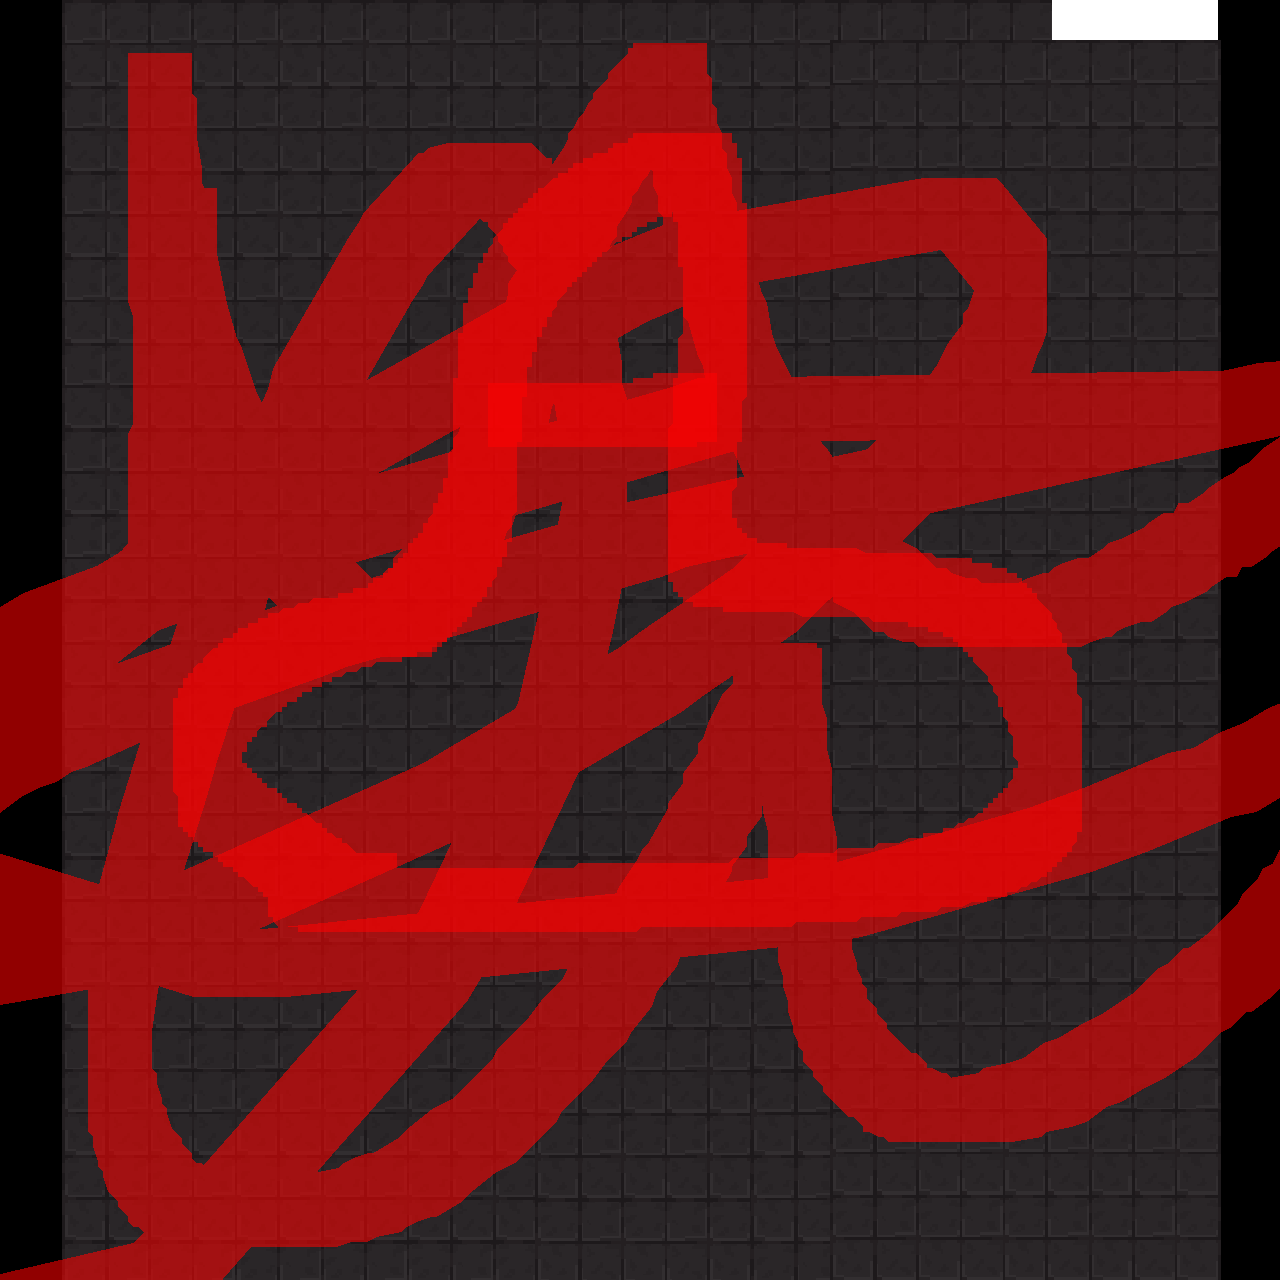
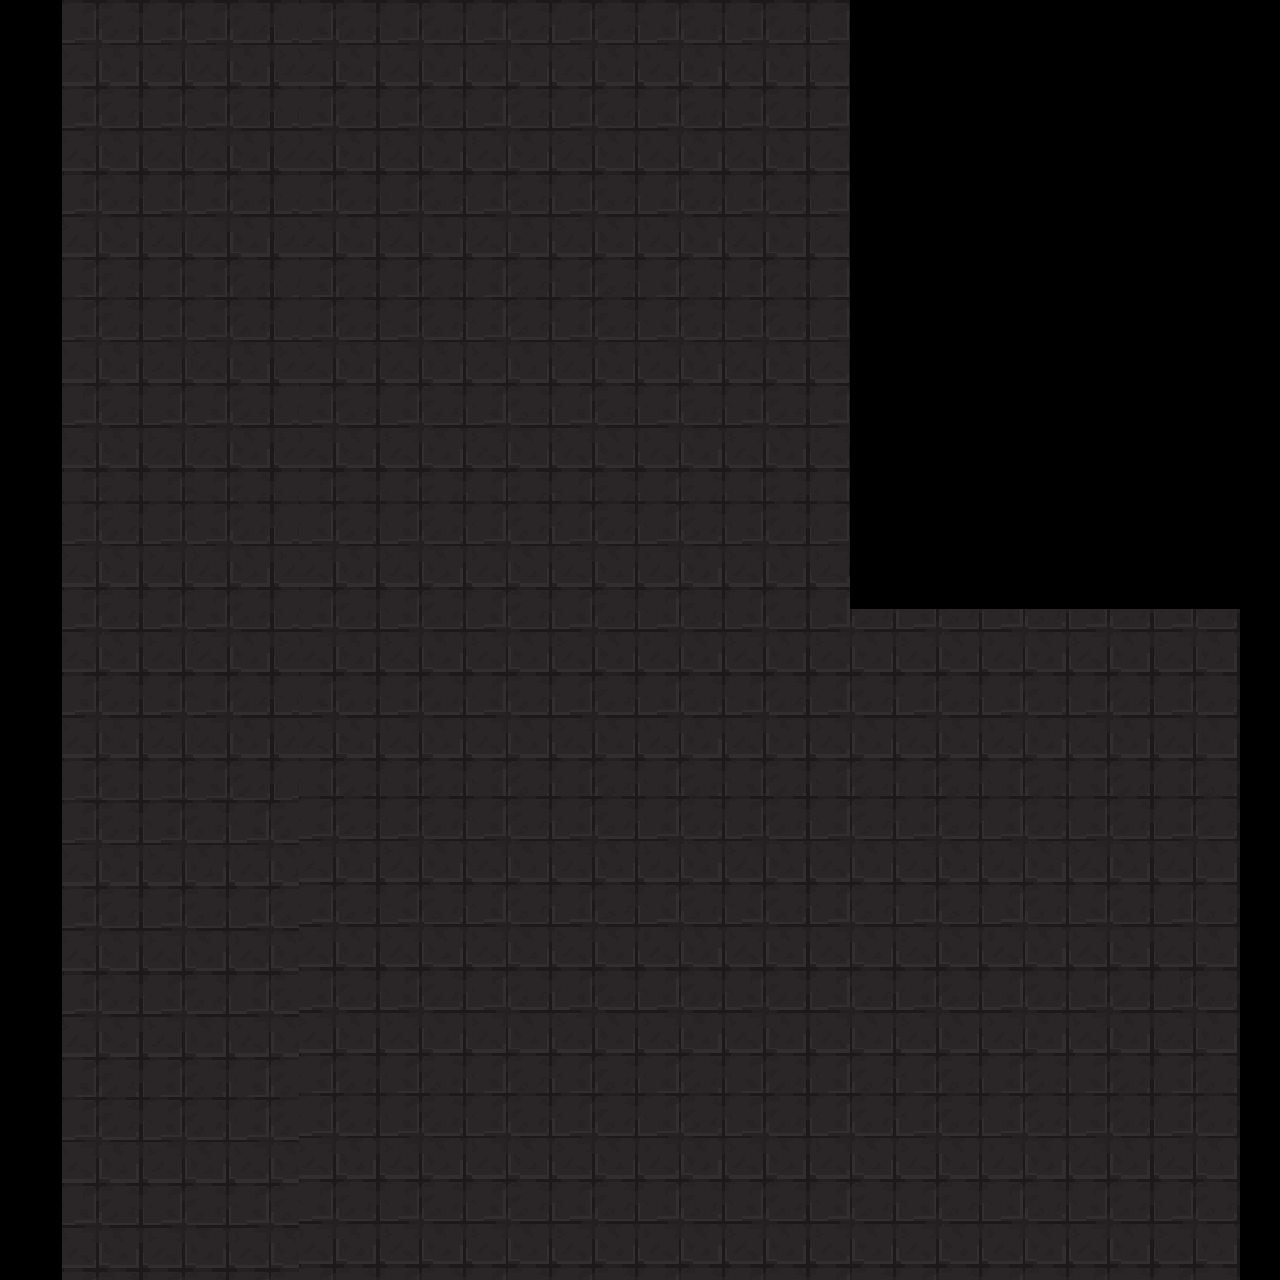
Nova sala com formato novo, não apenas quadrada

diff --git a/prototipo/settings.py b/prototipo/settings.py
@@ -18,21 +18,25 @@ TILESIZE = 64
 # p = player
 # b = pilha
 # l = porta
+# k = chave
+# v = slime
+# el = inimigo
+
 
 
 ROOMS = ([
 ['j','y','y','y','y','y','y','y','y','c','y','y','y','y','y','y','y','y','y','m'],
 ['x','a','z','a','z','a','z','a','i','l','i','a','z','a','z','a','z','a','a','q'],
-['x',' ','p',' ',' ',' ',' ',' ',' ',' ',' ',' ',' ',' ',' ',' ',' ',' ',' ','q'],
+['x',' ','p',' ',' ',' ',' ',' ',' ','k',' ',' ',' ',' ',' ',' ',' ',' ',' ','q'],
 ['x',' ',' ',' ',' ',' ',' ','eh',' ',' ',' ',' ',' ',' ',' ',' ',' ',' ',' ','q'],
 ['x',' ',' ',' ',' ',' ',' ',' ',' ',' ',' ','v',' ',' ',' ',' ','v',' ',' ','q'],
-['x',' ',' ','q','s',' ',' ','v',' ',' ',' ',' ',' ',' ',' ',' ',' ',' ',' ','q'],
-['x',' ',' ','q','s',' ',' ',' ',' ',' ',' ',' ',' ',' ',' ',' ',' ',' ',' ','q'],
-['x',' ',' ','q','s','k',' ','b',' ','el',' ',' ',' ',' ',' ',' ',' ',' ',' ','q'],
-['x',' ',' ','q',' ',' ',' ',' ',' ',' ',' ',' ',' ',' ',' ',' ',' ',' ',' ','q'],
-['x',' ',' ','q',' ',' ',' ',' ',' ',' ',' ',' ',' ',' ',' ',' ',' ',' ',' ','q'],
-['x',' ',' ','q',' ',' ',' ',' ',' ',' ',' ',' ',' ',' ',' ',' ',' ',' ',' ','q'],
-['x',' ','h','o',' ',' ',' ',' ',' ',' ',' ',' ',' ',' ',' ',' ',' ',' ',' ','q'],
+['x',' ',' ','j','y','y','y','y',' ',' ',' ',' ',' ',' ',' ',' ',' ',' ',' ','q'],
+['x',' ',' ','x','a','a','a','a',' ',' ',' ',' ',' ',' ',' ',' ',' ',' ',' ','q'],
+['x',' ',' ','x',' ',' ',' ',' ',' ','el',' ',' ',' ','b',' ',' ',' ',' ',' ','q'],
+['x',' ',' ','x',' ',' ',' ',' ',' ',' ',' ',' ',' ',' ',' ',' ',' ',' ',' ','q'],
+['x',' ',' ','x',' ',' ',' ',' ',' ',' ',' ',' ',' ',' ',' ',' ',' ',' ',' ','q'],
+['x',' ',' ','x',' ',' ',' ',' ',' ',' ',' ','b',' ',' ',' ',' ',' ',' ',' ','q'],
+['x',' ',' ','n','h','h',' ',' ',' ',' ',' ',' ',' ',' ',' ',' ',' ',' ',' ','q'],
 ['x',' ',' ',' ',' ',' ',' ',' ',' ',' ',' ',' ',' ',' ',' ',' ',' ',' ',' ','q'],
 ['x',' ',' ',' ',' ',' ',' ',' ',' ','b',' ',' ',' ',' ',' ',' ',' ',' ',' ','q'],
 ['x',' ',' ',' ',' ',' ',' ',' ',' ',' ',' ',' ',' ',' ',' ',' ',' ',' ',' ','q'],
@@ -42,21 +46,21 @@ ROOMS = ([
 ['x','pilha-120-7-600-lrwpn',' ',' ',' ',' ',' ',' ',' ',' ',' ',' ',' ',' ',' ',' ',' ',' ',' ','q'],
 ['n','h','h','h','h','h','h','h','h','h','h','h','h','h','h','h','h','h','h','o']],
 [
-['j','y','f','y','y','y','y','y','y','y','y','y','y','y','y','y','y','y','y','m'],
-['x','a','w','a','z','a','z','a','a','a','a','a','z','a','z','a','z','a','a','q'],
-['x',' ','p',' ',' ',' ',' ',' ',' ',' ',' ',' ',' ',' ',' ',' ',' ',' ',' ','q'],
+['j','y','f','y','y','y','y','y','y','y','y','y','y','m',' ',' ',' ',' ',' ',' '],
+['x','a','w','a','z','a','z','a','a','a','a','a','z','q',' ',' ',' ',' ',' ',' '],
+['x',' ','p',' ',' ',' ',' ',' ',' ',' ',' ',' ',' ','q',' ',' ',' ',' ',' ',' '],
+['x',' ',' ',' ',' ',' ',' ',' ',' ',' ',' ',' ',' ','q',' ',' ',' ',' ',' ',' '],
+['x',' ',' ',' ',' ',' ',' ',' ',' ',' ',' ',' ',' ','q',' ',' ',' ',' ',' ',' '],
+['x',' ',' ',' ',' ',' ',' ',' ',' ',' ',' ',' ',' ','q',' ',' ',' ',' ',' ',' '],
+['x',' ',' ',' ',' ',' ',' ',' ',' ',' ',' ',' ',' ','q',' ',' ',' ',' ',' ',' '],
+['x',' ',' ',' ',' ',' ',' ',' ',' ',' ',' ',' ',' ','q',' ',' ',' ',' ',' ',' '],
+['x',' ',' ',' ',' ',' ',' ',' ',' ',' ',' ',' ',' ','q',' ',' ',' ',' ',' ',' '],
+['x',' ',' ',' ',' ',' ',' ',' ',' ',' ',' ',' ',' ','y','y','y','c','y','y','m'],
+['x',' ',' ',' ',' ',' ',' ',' ',' ',' ',' ',' ',' ','a','z','a','l','a','z','q'],
 ['x',' ',' ',' ',' ',' ',' ',' ',' ',' ',' ',' ',' ',' ',' ',' ',' ',' ',' ','q'],
 ['x',' ',' ',' ',' ',' ',' ',' ',' ',' ',' ',' ',' ',' ',' ',' ',' ',' ',' ','q'],
 ['x',' ',' ',' ',' ',' ',' ',' ',' ',' ',' ',' ',' ',' ',' ',' ',' ',' ',' ','q'],
-['x',' ',' ',' ',' ',' ',' ',' ',' ',' ',' ',' ',' ',' ',' ',' ',' ',' ',' ','q'],
-['x',' ',' ',' ',' ',' ',' ',' ',' ',' ',' ',' ',' ',' ',' ',' ',' ',' ',' ','q'],
-['x',' ',' ',' ',' ',' ',' ',' ',' ',' ',' ',' ',' ',' ',' ',' ',' ',' ',' ','q'],
-['x',' ',' ',' ',' ',' ',' ',' ',' ',' ',' ',' ',' ',' ',' ',' ',' ',' ',' ','q'],
-['x',' ',' ',' ',' ',' ',' ',' ',' ',' ',' ',' ',' ',' ',' ',' ',' ',' ',' ','q'],
-['x',' ',' ',' ',' ',' ',' ',' ',' ',' ',' ',' ',' ',' ',' ',' ',' ',' ',' ','q'],
-['x',' ',' ',' ',' ',' ',' ',' ',' ',' ',' ',' ',' ',' ',' ',' ',' ',' ',' ','q'],
-['x',' ',' ',' ',' ',' ',' ',' ',' ',' ',' ',' ',' ',' ',' ',' ',' ',' ',' ','q'],
-['x',' ',' ',' ',' ',' ',' ',' ',' ',' ',' ',' ',' ',' ',' ',' ',' ',' ',' ','q'],
+['x',' ',' ','k',' ',' ',' ',' ',' ',' ',' ',' ',' ',' ',' ',' ',' ',' ',' ','q'],
 ['x',' ',' ',' ',' ',' ',' ',' ',' ',' ',' ',' ',' ',' ',' ',' ',' ',' ',' ','q'],
 ['x',' ',' ',' ',' ',' ',' ',' ',' ',' ',' ',' ',' ',' ',' ',' ',' ',' ',' ','q'],
 ['x',' ',' ',' ',' ',' ',' ',' ',' ',' ',' ',' ',' ',' ',' ',' ',' ',' ',' ','q'],

diff --git a/prototipo/enemyHighDMG.py b/prototipo/enemyHighDMG.py
@@ -80,6 +80,7 @@ class EnemyHighDMG(Enemy):
         self.getSpawnEnemy()(self.__enemyLowDMG1)
         self.getSpawnEnemy()(self.__enemyLowDMG2)
         self.getSpawnEnemy()(self.__enemyLowDMG3)
-
+        
         self.kill()
+
 
